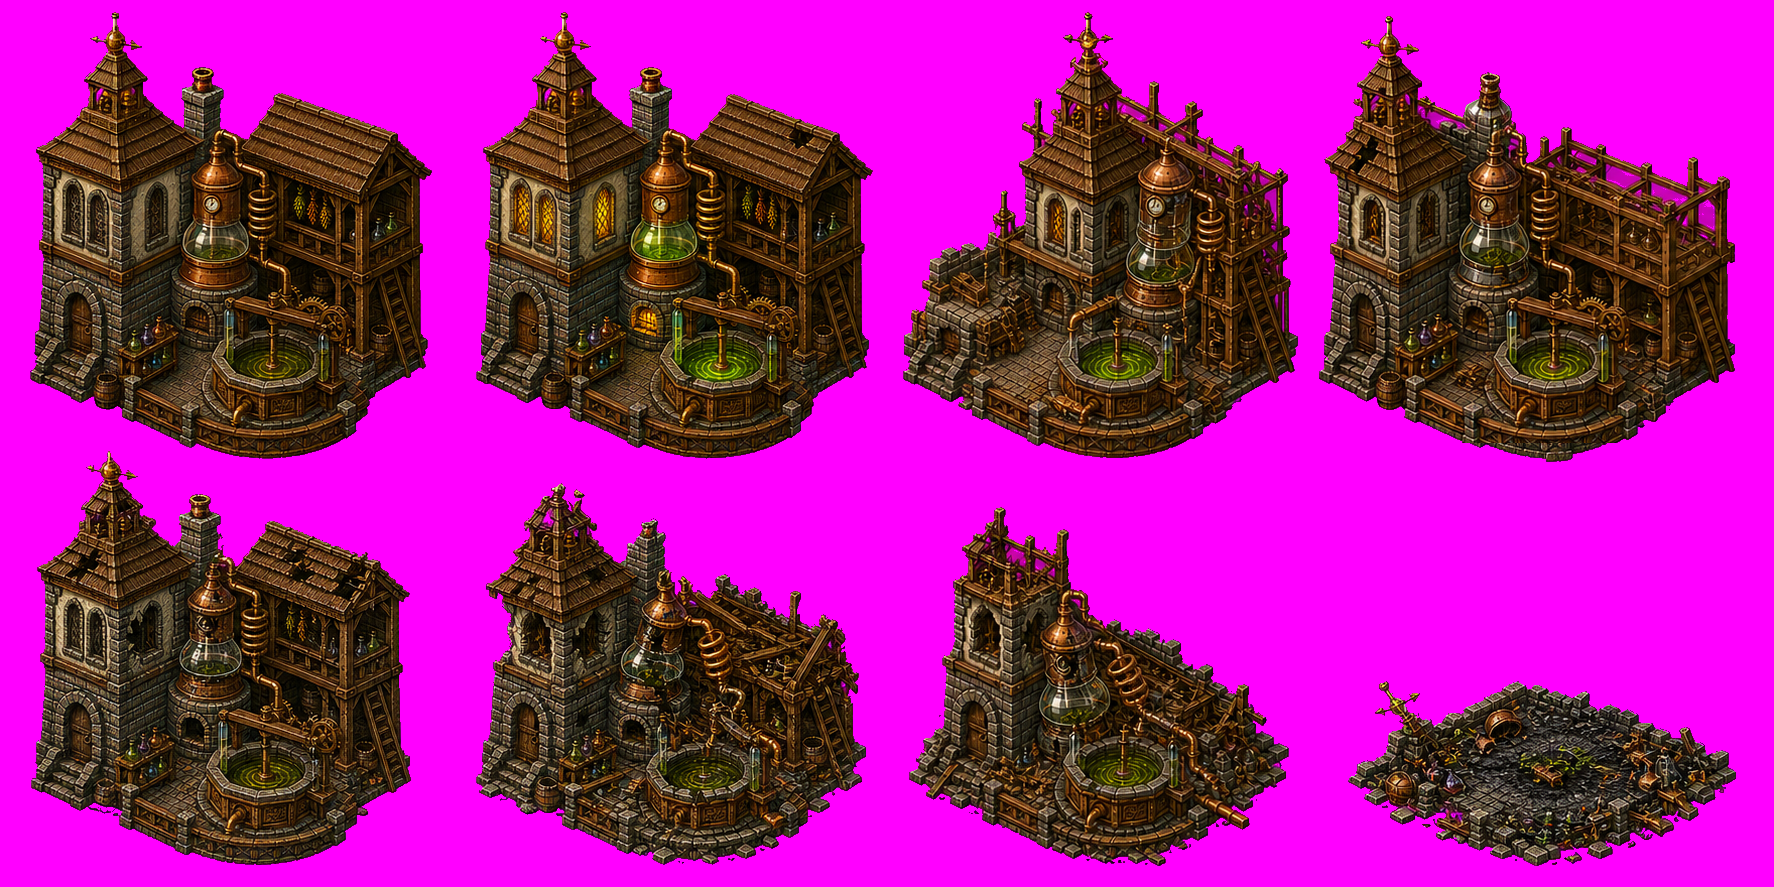
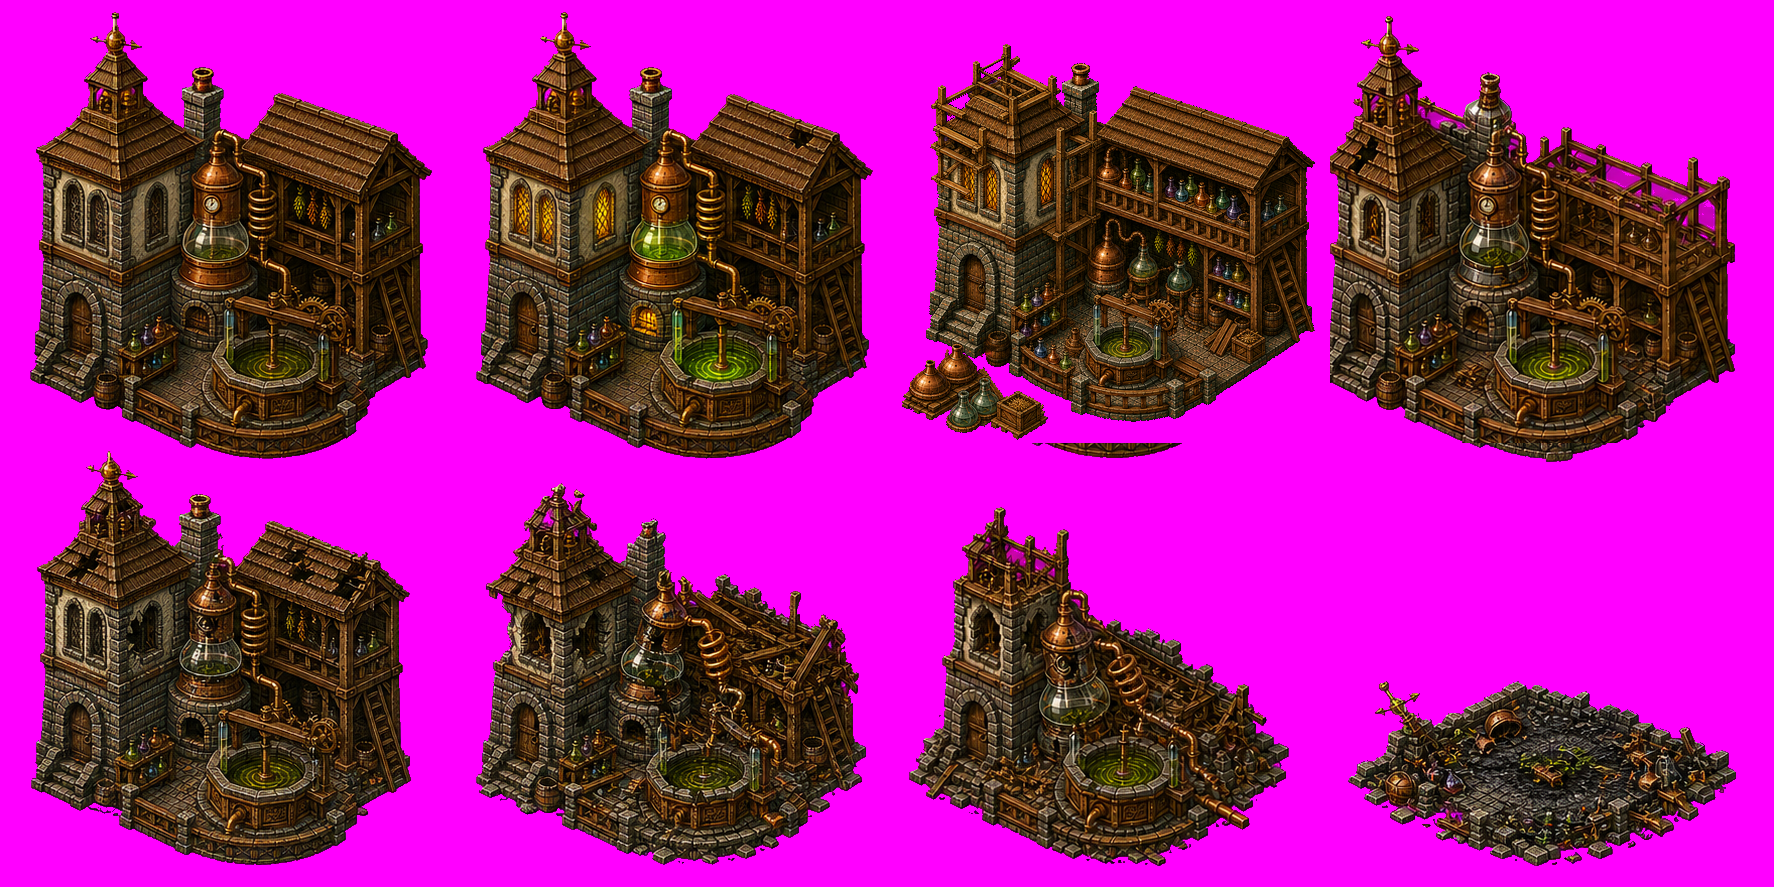
Refine Alchemist upgrade continuity and portrait

Changed region(s): [[0.4961, 0.0304, 0.7751, 0.5175]]

diff --git a/docs/art-direction.md b/docs/art-direction.md
@@ -24,6 +24,9 @@ walk, and attack direction. In the authored six-view sheets this means the
 southeast/front-three-quarter attack places the weapon on image-left, while the
 northwest/rear-three-quarter neutral, walk, and attack views place it on
 image-right. Never mirror a whole pose without correcting handedness afterward.
+In the northwest neutral and walk views, show the back of the right glove and
+its knuckles. The blade must leave the thumb/index side in a conventional
+forward grip; it may not project from the pinky side as a reversed grip.
 The northwest cast view must face upper-left and keep its potion in the same
 anatomical right hand; it must not duplicate the northeast view.
 
@@ -47,6 +50,9 @@ Level 1 building still standing and erects the second story/gallery around it.
 Level 3 construction begins with the finished Level 2 building still standing
 and adds the cupola, showcase distiller, upgraded well, and roof refinements.
 Only initial Level 1 construction starts from an empty foundation.
+The inherited stone tower remains anchored at the far-left side of the footprint
+in both Level 3 construction frames. It must not jump toward the center between
+early construction, late construction, and completion.
 
 The bottom-row state sequence is damaged, severely damaged, advanced collapse,
 and destroyed. The advanced-collapse cell must retain a recognizable partial
@@ -55,8 +61,10 @@ be reduced to a flattened footprint.
 
 The guild panel portrait represents the inside of the building, following the
 stock Majesty guild-panel convention. It must show the enclosed Alchemy
-Laboratory workspace—still, brewing well, shelves, herbs, and workbench—not an
-exterior building view.
+Laboratory workspace, not an exterior building view. Focus the portrait on the
+long workbench: formula book, mortar and pestle, balance, bowls, hand tools,
+ingredients, and compact glass retorts. Do not reproduce the exterior's large
+showcase distiller or potion well inside the portrait.
 
 ## Production source set
 
